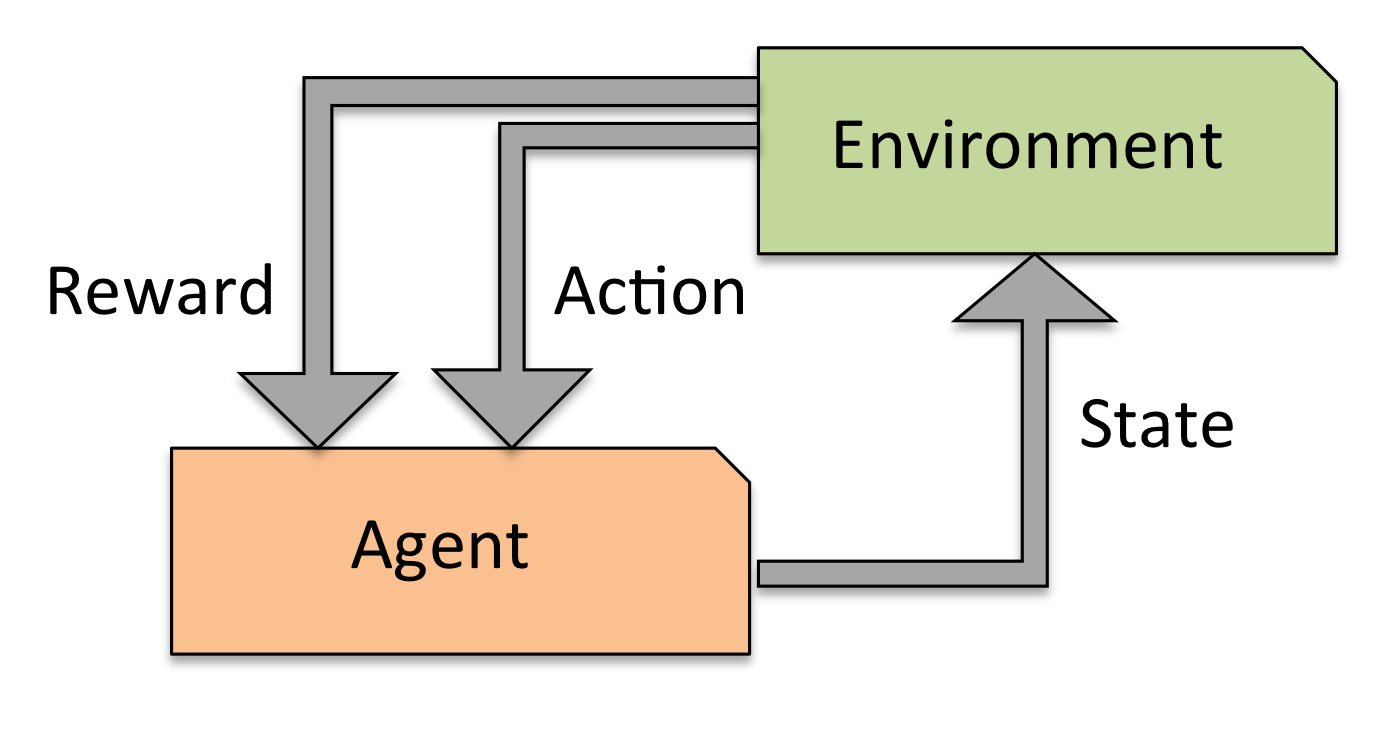
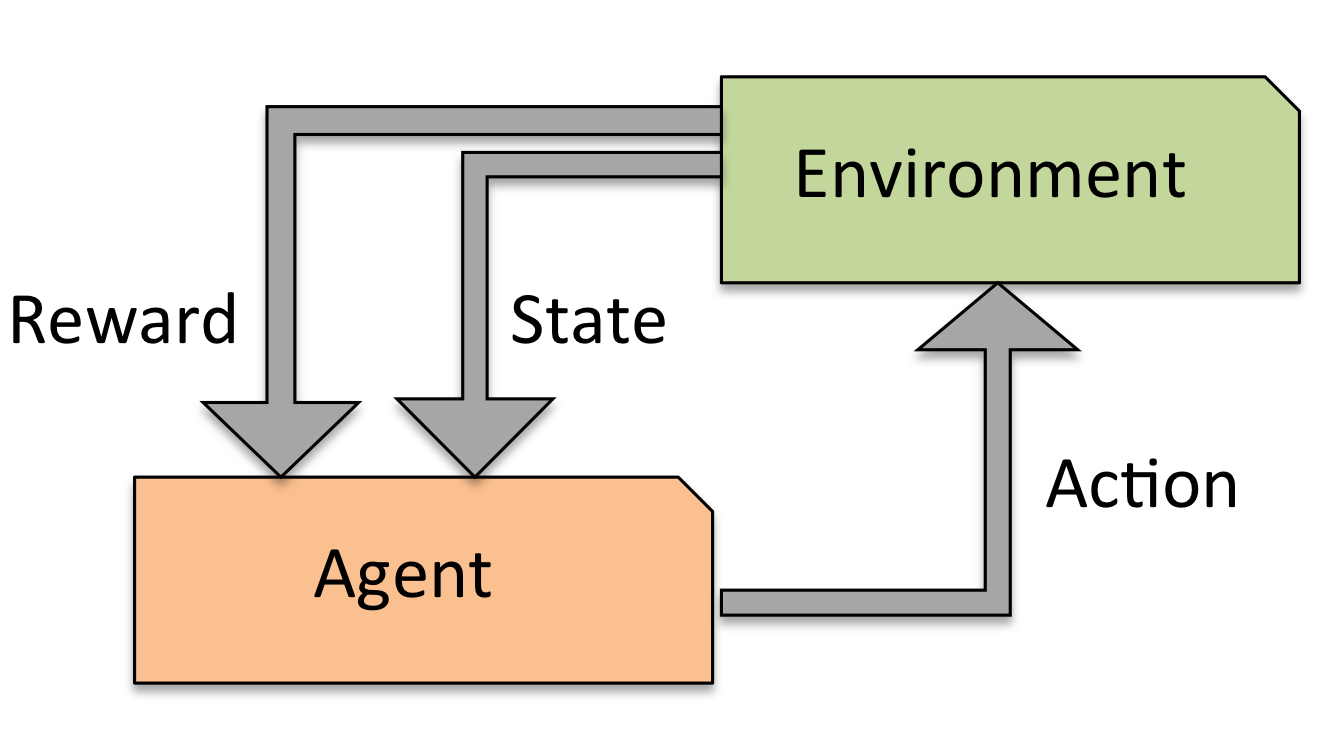
reinforcement label upd

Changed region(s): [[0.0, 0.0603, 0.9902, 0.9644], [0.5879, 0.1507, 0.8974, 0.2712], [0.2166, 0.6932, 0.4023, 0.8438]]

diff --git a/docs/errata.md b/docs/errata.md
@@ -11,7 +11,7 @@ I would be happy if you just write me a short [mail](mailto:mail@sebastianraschk
 
 ## Donations
 
-- Current amount for the next donation: $59.00
+- Current amount for the next donation: $63.00
 - Amount donated to charity: $0.00
 
 ## Leaderboard
@@ -20,10 +20,11 @@ I would be happy if you just write me a short [mail](mailto:mail@sebastianraschk
 2. Christopher Galpin ($8.00)
 2. Edgar C. ($4.00)
 3. S.R. ($4.00)
+3. Will P. ($4.00)
 4. Joseph Gordon ($3.00)
-5. Ailin M. ($2.00)
 6. Ilmo S. ($3.00)
 7. Hyun L. ($3.00)
+5. Ailin M. ($2.00)
 8. T.S. Jayram ($2.00)
 9. Andrei R. ($2.00)
 10. Panos N. ($2.00)
